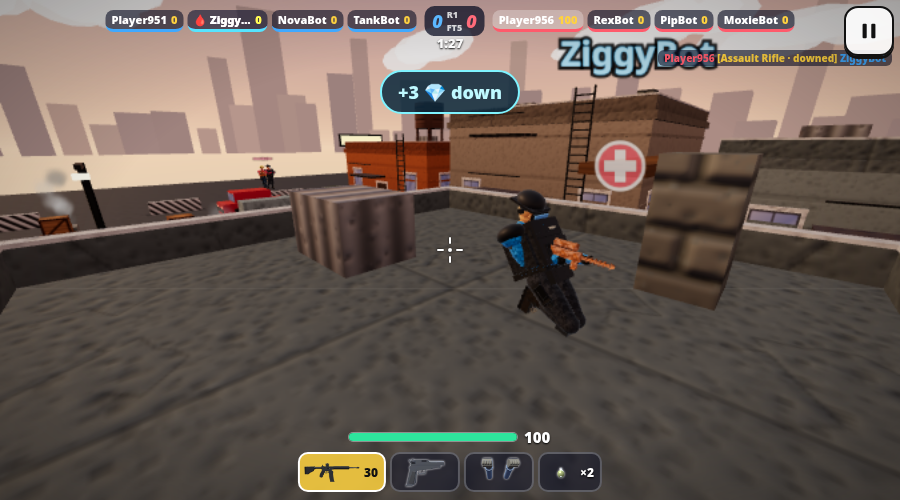
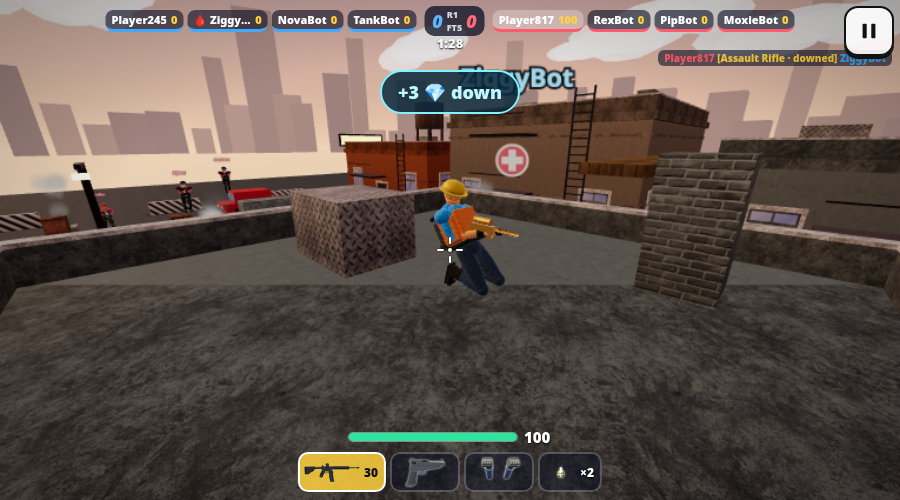
v38: bot stuck detection/unstick, bots revive downed teammates under fire, rounded smooth characters (LOD-aware), Play Online with Bots (menu+hub), team-aware join

diff --git a/game.js b/game.js
@@ -499,7 +499,7 @@ function hostHandle(from,m){const p=H.players[from];
  switch(m.t){
  case 'hello':{if(Object.values(H.players).filter(q=>!q.bot).length>=MAXP){conns[from]?.send({t:'full'});return}if(!conns[from]){const c=peer.connections?.[from]?.[0];if(c)conns[from]=c}
   const np=H.players[from]=newP(from,String(m.name||'Player').slice(0,12));np.skin=SKINS[m.skin]?m.skin:'default';np.ws=cleanWS(m.ws);np.cl=clOf(m.cl);np.hid=m.hid||null;
-  if(H.phase==='lobby')sendLobby();else{if(H.mode==='ffa'){np.team=from;np.color=FFACOL[plist().length%10]}else{np.team=teamSmaller();np.color=TEAMCOL[np.team]}
+  if(H.phase==='lobby')sendLobby();else{if(H.mode==='ffa'){np.team=from;np.color=FFACOL[plist().length%10]}else{np.team=teamForJoiner(from);np.color=TEAMCOL[np.team]}
    {const mx=MODEMAX[H.mode]||MAXP;if(plist().length>mx){const bs=plist().filter(q=>q.bot&&(H.mode==='ffa'||q.team===np.team));const bt=bs.find(q=>!q.alive)||bs[0];if(bt){delete H.players[bt.id];bcast({t:'bye',id:bt.id})}}}
    bcast(lobbyData());sendTo(from,startData());bcast({t:'join',id:from,name:np.name,team:np.team,color:np.color,o:np.ord,sk:np.skin,ws:np.ws,cl:np.cl},from);
    sendTo(from,{t:'round',round:H.round,score:H.score,spawns:{},count:0});sendSB();if(H.mode==='ffa')np.respawn=H.t+1}break}
@@ -525,6 +525,7 @@ function hostHandle(from,m){const p=H.players[from];
  case 'fall':if(p&&p.alive&&H.phase==='play')damage(p,999,from,false,'fall');break;
  }}
 function rayClearHost(a,b){const d=b.clone().sub(a);const l=d.length();d.divideScalar(l);if(rayWorld(a,d,l)<l-.3)return false;for(const s of H.smokes){if(s.t<1.2)continue;const lx=s.p.x-a.x,ly=s.p.y-a.y,lz=s.p.z-a.z;const tc=lx*d.x+ly*d.y+lz*d.z;const d2=lx*lx+ly*ly+lz*lz-tc*tc;const r=s.r*.8;if(d2<r*r&&tc>-r&&tc<l+r)return false}return true}
+function teamForJoiner(id){const h={A:0,B:0},n={A:0,B:0};for(const p of plist()){if(p.id===id||!(p.team in n))continue;n[p.team]++;if(!p.bot)h[p.team]++}return h.A!==h.B?(h.A<h.B?'A':'B'):(n.A<=n.B?'A':'B')}
 function teamSmaller(){let a=0,b=0;for(const p of plist()){if(p.team==='A')a++;else if(p.team==='B')b++}return a<=b?'A':'B'}
 const AS_WIN=10,AS_MIN=25;
 function asRec(v,dmg,by,w){if(!by||by===v.id||w==='fall'||w==='bleed'||!H.players[by])return;const D=v.dmgBy||(v.dmgBy={});const e=D[by]||(D[by]={d:0,t:-99});if(H.t-e.t>AS_WIN)e.d=0;e.d+=v.down?dmg*.5:dmg;e.t=H.t}
@@ -580,12 +581,12 @@ function hostTick(dt){H.t+=dt;if(H.phase==='play')for(const p of plist()){const 
  if(H.phase==='play'){
   for(const v of plist()){if(!v.down)continue;if(H.t>=v.downT){damage(v,999,v.id,false,'bleed');continue}
    const rv=plist().filter(q=>q.team===v.team&&q.id!==v.id&&q.alive&&!q.down&&Math.hypot(q.p[0]-v.p[0],q.p[1]-v.p[1],q.p[2]-v.p[2])<=DOWN.r);
-   if(rv.length){if(!v.rev||!rv.some(q=>q.id===v.rev.by))v.rev={by:rv[0].id,t0:H.t};if(H.t-v.rev.t0>=((PCL[(H.players[v.rev.by]||{}).cl]||{}).rev||DOWN.revive)){(window.__rv=window.__rv||[]).push(+(H.t-v.rev.t0).toFixed(3));v.down=false;v.hp=DOWN.revHp;v.dmgBy={};const by=v.rev.by;v.rev=null;bcast({t:'revive',id:v.id,by,hp:v.hp});bcast({t:'hp',id:v.id,hp:v.hp});sendSB();continue}}
+   if(rv.length){if(!v.rev||!rv.some(q=>q.id===v.rev.by))v.rev={by:rv[0].id,t0:H.t};if(H.t-v.rev.t0>=((PCL[(H.players[v.rev.by]||{}).cl]||{}).rev||DOWN.revive)){(window.__rv=window.__rv||[]).push(+(H.t-v.rev.t0).toFixed(3));(window.__rvBy=window.__rvBy||[]).push({id:v.id,by:v.rev.by});v.down=false;v.hp=DOWN.revHp;v.dmgBy={};const by=v.rev.by;v.rev=null;bcast({t:'revive',id:v.id,by,hp:v.hp});bcast({t:'hp',id:v.id,hp:v.hp});sendSB();continue}}
    else v.rev=null;
    if((v.dsT=(v.dsT||0)+dt)>.15){v.dsT=0;bcast({t:'dst',id:v.id,left:Math.max(0,v.downT-H.t),rv:v.rev?Math.min(1,(H.t-v.rev.t0)/((PCL[(H.players[v.rev.by]||{}).cl]||{}).rev||DOWN.revive)):0,by:v.rev?v.rev.by:null})}}
   if(H.t>=H.roundEnd){let win='draw';if(H.mode==='ffa'){let b=-1;for(const p of plist())if(p.rk>b){b=p.rk;win=p.id}}else{const a=teamAlive();win=(a.A||0)>(a.B||0)?'A':(a.B||0)>(a.A||0)?'B':'draw'}endRound(win)}
   if(H.mode==='ffa')for(const p of plist()){if(!p.alive&&p.respawn&&H.t>=p.respawn){p.respawn=0;p.dmgBy={};p.alive=true;p.hp=100;const s=respawnPoint(p);p.p=[s[0],0,s[1],s[2],0,0,0];if(p.bot)botReset(p,s);bcast({t:'spawn',id:p.id,s});sendSB()}}
-  for(const p of plist())if(p.bot&&p.alive)botTick(p,dt);
+  for(const p of plist())if(p.bot&&p.alive&&!(H.botFreeze&&H.botFreeze[p.id]))botTick(p,dt);
   // molotov damage over time
   H.fireT+=dt;for(const f of H.fires)f.t+=dt;H.fires=H.fires.filter(f=>f.t<f.life);for(const s of H.smokes)s.t+=dt;H.smokes=H.smokes.filter(s=>s.t<s.life);
   if(H.fireT>=.5){H.fireT=0;for(const f of H.fires){const o=H.players[f.owner];for(const p of plist()){if(!p.alive)continue;if(o&&H.mode!=='ffa'&&p.team===o.team&&p.id!==f.owner)continue;if(p.id===f.owner)continue;
@@ -611,7 +612,7 @@ function botTick(b,dt){const e=b.e;let tgt=null,td=1e9;
   let wx=0,wz=0;if(m&&md>1){wx=(m.p[0]-e.pos.x)/md;wz=(m.p[2]-e.pos.z)/md;b.yaw=Math.atan2(-wx,-wz)}e.vel.x=wx*1.1;e.vel.z=wz*1.1;e.bump=0;physStep(e,dt);b.p=[e.pos.x,e.pos.y,e.pos.z,b.yaw,0,WIDX[b.gun]|0,0];return}
  // go revive a downed teammate when no enemy is in sight
  if(isTeamMode(H.mode)){const dn=plist().filter(q=>q.down&&q.alive&&q.team===b.team&&q.id!==b.id);if(dn.length){let best=null,bd=1e9;for(const q of dn){const d=Math.hypot(q.p[0]-e.pos.x,q.p[2]-e.pos.z);if(d<bd){bd=d;best=q}}
-  if(best&&bd<35){b.revT=best.id;b.goal=[best.p[0],best.p[2],best.p[1]];b.via=null}else b.revT=null}else b.revT=null}b.blind=Math.max(0,(b.blind||0)-dt);const w=W[b.gun]||W.ar;
+  if(best&&bd<60){b.revT=best.id;b.goal=[best.p[0],best.p[2],best.p[1]];b.via=null}else b.revT=null}else b.revT=null}b.blind=Math.max(0,(b.blind||0)-dt);const w=W[b.gun]||W.ar;
  if(b.blind<=0&&!H.noFight)for(const q of plist()){if(!q.alive||q.id===b.id||(H.mode!=='ffa'&&q.team===b.team))continue;const dx=q.p[0]-e.pos.x,dz=q.p[2]-e.pos.z,dy=q.p[1]-e.pos.y,dd=Math.hypot(dx,dy,dz);if(dd>55||dd>=td)continue;if(dd>4.5&&hides.length&&inVol(hides,{x:q.p[0],y:q.p[1]+.5,z:q.p[2]})&&!(q.shotT>H.t-1.5))continue;
   _o.set(e.pos.x,e.pos.y+1.5,e.pos.z);if(!rayClearHost(_o,_d.set(q.p[0],q.p[1]+(q.down?.4:1.4),q.p[2])))continue;const sc=dd+(q.down?12:0);if(sc>=td)continue;td=sc;tgt=q}
  let wx=0,wz=0;b.st-=dt;if(b.st<=0){b.st=.5+Math.random()*1.2;b.strafe=Math.random()<.5?-1:1}
@@ -622,12 +623,24 @@ function botTick(b,dt){const e=b.e;let tgt=null,td=1e9;
    bcast({t:'fx',id:b.id,a:[_o.x,_o.y,_o.z],b:end,w:b.gun});if(hit){const head=Math.random()<D.head;damage(tgt,Math.round((head?w.head:w.body)*falloff(w,td)),b.id,head,b.gun)}}}
  else{b.react=DIFF[H.diff||'normal'].react;const m=buildMap(H.map);if(b.goal&&b.hold>0&&Math.hypot(b.goal[0]-e.pos.x,b.goal[1]-e.pos.z)<2&&Math.abs((b.goal[2]||0)-e.pos.y)<1.6)b.hold-=dt;if(!b.revT&&!(b.hold>0&&b.goal&&Math.hypot(b.goal[0]-e.pos.x,b.goal[1]-e.pos.z)<2.5)&&(!b.goal||(Math.hypot(b.goal[0]-e.pos.x,b.goal[1]-e.pos.z)<2&&Math.abs((b.goal[2]||0)-e.pos.y)<1.6)||(!H.noFight&&(Math.random()<dt*.05||(b.goalT=(b.goalT||0)+dt)>25)))){const all=allSpawns(m);const foes=plist().filter(q=>q.alive&&q.id!==b.id&&(H.mode==='ffa'||q.team!==b.team));const hi=m.nav?m.nav.filter(n=>(n[2]||0)>2):[];if(hi.length&&Math.random()<.4){b.goal=hi[Math.random()*hi.length|0].slice();b.hold=4+Math.random()*6}else if(foes.length&&Math.random()<.55){const f=foes[Math.random()*foes.length|0];b.goal=[f.p[0]+(Math.random()-.5)*3,f.p[2]+(Math.random()-.5)*3,f.p[1]]}else if(m.nav&&m.nav.length&&Math.random()<.5)b.goal=m.nav[Math.random()*m.nav.length|0].slice();else b.goal=all[Math.random()*all.length|0].slice();b.via=null;b.goalT=0}
   const nt=navTarget(b,e,m);const dx=nt[0]-e.pos.x,dz=nt[2]-e.pos.z;b.climbY=nt[1];const l=Math.hypot(dx,dz)||1;wx=dx/l;wz=dz/l;const ty=Math.atan2(-dx,-dz);let dy=ty-b.yaw;dy=Math.atan2(Math.sin(dy),Math.cos(dy));b.yaw+=dy*Math.min(1,dt*4)}
- if(b.detour>0){b.detour-=dt;wx=b.dd[0];wz=b.dd[1]}
- if(b.revT&&!tgt){const q=H.players[b.revT];if(q&&Math.hypot(q.p[0]-e.pos.x,q.p[2]-e.pos.z)<.9){wx=wz=0;b.detour=0}}
+ // revive takes priority over fighting unless an enemy is very close (<7 m): keep aiming/shooting, but walk to the downed mate and hold
+ let revHold=false;if(b.revT){const q=H.players[b.revT];if(q&&q.down&&(!tgt||td>7)){const m=buildMap(H.map);if(tgt){const nt=navTarget(b,e,m);const dx=nt[0]-e.pos.x,dz=nt[2]-e.pos.z,l=Math.hypot(dx,dz)||1;wx=dx/l;wz=dz/l;b.climbY=nt[1]}
+   if(Math.hypot(q.p[0]-e.pos.x,q.p[2]-e.pos.z)<.9&&Math.abs(q.p[1]-e.pos.y)<1.2){wx=wz=0;b.detour=0;revHold=true}}}
+ if(b.detour>0&&!revHold){b.detour-=dt;wx=b.dd[0];wz=b.dd[1]}
  const l=Math.hypot(wx,wz);if(l>0){wx/=l;wz/=l}const sp=(b.blind>0?2:5.2)*(b.slowT>H.t?b.slowF:1);{const cs=(PCL[b.cl]||{}).spd||1;e.vel.x+=(wx*sp*cs-e.vel.x)*Math.min(1,dt*10);e.vel.z+=(wz*sp*cs-e.vel.z)*Math.min(1,dt*10)}
  {const L=inVol(ladders,e.pos);e.ladTop=L&&(b.climbY??0)>e.pos.y+.3?L.y1:null;if(L){const ty=b.climbY??e.pos.y;if(ty>e.pos.y+.3){e.vel.y=4.4;e.vel.x-=L.n[0]*1.5;e.vel.z-=L.n[1]*1.5}else if(ty<e.pos.y-.3)e.vel.y=Math.min(e.vel.y,-2.5);else e.vel.y=Math.max(e.vel.y,0)}}
  if(e.ground&&!(b.via&&b.via.down)){const px=e.pos.x+e.vel.x*.45,pz=e.pos.z+e.vel.z*.45;if(!supportAt(px,e.pos.y,pz)){e.vel.x*=-.3;e.vel.z*=-.3;if(!b.via)b.goal=null}}
  if(e.ground&&supportAt(e.pos.x,e.pos.y,e.pos.z))b.lastG=[e.pos.x,e.pos.z];else if(!e.ground&&b.lastG&&!inVol(ladders,e.pos,.4)&&!(b.via&&b.via.down)&&!supportAt(e.pos.x,e.pos.y,e.pos.z)){const gx=b.lastG[0]-e.pos.x,gz=b.lastG[1]-e.pos.z,gl=Math.hypot(gx,gz)||1;e.vel.x=gx/gl*5;e.vel.z=gz/gl*5;if(!b.via)b.goal=null}
+ {const want=Math.hypot(wx,wz)>.1&&!revHold&&!(b.hold>0&&b.goal&&Math.hypot(b.goal[0]-e.pos.x,b.goal[1]-e.pos.z)<2.5)&&!b.down;
+  const spd=Math.hypot(e.vel.x,e.vel.z);if(H.phase==='play'){const sw=b.sw||(b.sw={t:0,w:0,x:e.pos.x,z:e.pos.z});sw.t+=dt;if(want)sw.w+=dt;if(sw.t>=4){if(sw.w>3){H.moveSec=(H.moveSec||0)+4;if(Math.hypot(e.pos.x-sw.x,e.pos.z-sw.z)<1.5)H.stuckSec=(H.stuckSec||0)+4}sw.t=sw.w=0;sw.x=e.pos.x;sw.z=e.pos.z}}
+  const pr=b.pr||(b.pr={t:0,x:e.pos.x,z:e.pos.z});pr.t+=dt;if(pr.t>=.8){const mv=Math.hypot(e.pos.x-pr.x,e.pos.z-pr.z);b.lowProg=want&&mv<.7;
+   if(b.lowProg&&!H.noUnstick&&!inVol(ladders,e.pos,.6)){b.stk=(b.stk||0)+1;const sg=(b.stk&1)?1:-1,vl=Math.hypot(wx,wz)||1;
+    // 1: back up + strafe + hop; 2+: also re-path (new goal); 4+: aim for the nearest reachable nav point; 6+: nudge to the last good ground
+    b.dd=[(-wx*.7-wz*sg)/vl,(-wz*.7+wx*sg)/vl];b.detour=.6+Math.random()*.4;if(e.ground)e.vel.y=7.5;
+    if(b.stk>=2&&!b.revT){b.goal=null;b.via=null}
+    if(b.stk>=4){const m=buildMap(H.map);const N=(m.nav||[]).filter(n=>Math.abs((n[2]||0)-e.pos.y)<1.5);let bn=null,bd=1e9;for(const n of N){const d=Math.hypot(n[0]-e.pos.x,n[1]-e.pos.z);if(d>2&&d<bd){bd=d;bn=n}}if(bn&&!b.revT){b.goal=bn.slice();b.via=null}}
+    if(b.stk>=6&&b.goodG&&supportAt(b.goodG[0],b.goodG[2],b.goodG[1])){e.pos.set(b.goodG[0],b.goodG[2],b.goodG[1]);e.vel.set(0,0,0);b.goal=null;b.via=null;b.stk=0}}
+   else if(!b.lowProg){b.stk=0;if(e.ground)b.goodG=[e.pos.x,e.pos.z,e.pos.y]}pr.t=0;pr.x=e.pos.x;pr.z=e.pos.z}}
  e.bump=0;{const n=Math.ceil(dt/.02);for(let i=0;i<n;i++){const bb=e.bump;physStep(e,dt/n);e.bump=e.bump||bb}}if(e.bump&&e.ground){e.vel.y=8;b.stuckN=(b.stuckN||0)+1;if(b.stuckN>1&&!(b.detour>0)){const sg=Math.random()<.5?1:-1;const vl=Math.hypot(wx,wz)||1;b.dd=[-wz/vl*sg,wx/vl*sg];b.detour=.7+Math.random()*.6;b.stuckN=0}if(Math.random()<.15&&!b.via&&!inVol(ladders,e.pos,.6))b.goal=null}else if(!e.bump)b.stuckN=Math.max(0,(b.stuckN||0)-dt);if(e.pos.y<-3)damage(b,999,b.id,false,'fall');
  b.p=[e.pos.x,e.pos.y,e.pos.z,b.yaw,0,WIDX[b.gun]|0,e.ground?0:2]}
 // ================= CLIENT =================
@@ -1269,7 +1282,7 @@ $('endAgain').onclick=()=>endGo(true);$('endLobby').onclick=()=>endGo(false);
 function afterMatch(){if(C.fromHub||sessionStorage.getItem('hsz_fromHub')){sessionStorage.removeItem('hsz_fromHub');location.href=hubUrl()}}
 // ---------- public rooms: registry, browser, quick join ----------
 let regIv=null;
-function roomInfo(){return{code:roomCode,host:H.players[me.id]?.name||'Host',mode:H.mode,map:H.phase==='lobby'?'Voting':MAPS[H.map].name,n:plist().filter(p=>!p.bot).length,max:MODEMAX[H.mode]||10,phase:H.phase,hubffa:!!(H.auto&&H.auto.solo)}}
+function roomInfo(){return{code:roomCode,host:H.players[me.id]?.name||'Host',mode:H.mode,map:H.phase==='lobby'?'Voting':MAPS[H.map].name,n:plist().filter(p=>!p.bot).length,max:MODEMAX[H.mode]||10,phase:H.phase,hubffa:!!(H.auto&&H.auto.solo&&H.mode==='ffa')}}
 function regRoom(){if(!isHost||H.offline)return;if(!H.pub){if(regIv){clearInterval(regIv);regIv=null;hubSend({t:'unreg',code:roomCode})}return}
  hubLink(hubKind||'reg');hubSend({t:'reg',room:roomInfo()});if(!regIv)regIv=setInterval(()=>{if(H.pub)hubSend({t:'reg',room:roomInfo()})},5000)}
 function fetchRooms(cb){brCb=cb;hubLink(hubKind||'browse');if(hubConn&&hubConn.open)hubSend({t:'list'})}
@@ -1448,3 +1461,12 @@ $('soloOn').onclick=()=>{$('soloSel').classList.add('hidden');startHubMatch({cod
 $('soloOff').onclick=()=>{$('soloSel').classList.add('hidden');hubUnlink();leaveHubWorld();C.fromHub=true;sessionStorage.setItem('hsz_fromHub','1');startOffline();H.mode='ffa';H.auto={mode:'ffa',map:Math.random()*5|0,expect:1,fromHub:1};H.autoAt=H.t+.5;sendLobby()};
 $('soloX').onclick=()=>$('soloSel').classList.add('hidden');
 Object.defineProperty(window.__hsz,'room',{get:()=>({code:roomCode,inGame,offline:!!(H&&H.offline),pub:!!(H&&H.pub),host:isHost})});
+
+// ---- Play Online with Bots (menu + hub): host a public, bot-filled match; joiners replace a bot (team modes: on the team that needs them) ----
+function openPob(){audioInit();$('pobModes').innerHTML=['ffa','team','t3','t4','t5','duel'].map(k=>`<button class="btnBig blue" data-pob="${k}">${MODES[k][1]} ${MODES[k][0]}</button>`).join('');$('pobSel').classList.remove('hidden');if(document.pointerLockElement)document.exitPointerLock()}
+function playOnlineBots(mode){$('pobSel').classList.add('hidden');const auto={mode,map:Math.random()*MAPS.length|0,teams:{},expect:1,solo:1};const code=genCode();
+ if(C.hub){startHubMatch({code,map:auto.map,mode,teams:{},expect:1,solo:1,host:hubSelfId});return}
+ $('menu').classList.add('hidden');createRoom(code,auto)}
+$('pobModes').addEventListener('click',e=>{const b=e.target.closest('[data-pob]');if(b)playOnlineBots(b.dataset.pob)});
+$('pobBtn').onclick=openPob;$('hubPob').onclick=openPob;$('pobX').onclick=()=>$('pobSel').classList.add('hidden');
+window.__hsz.playOnlineBots=playOnlineBots;

diff --git a/chars.js b/chars.js
@@ -11,16 +11,25 @@ function hash(s){let h=7;for(const c of String(s))h=h*31+c.charCodeAt(0)|0;retur
 const _a=new THREE.Vector3(),_b=new THREE.Vector3(),_up=new THREE.Vector3(0,1,0),_q=new THREE.Quaternion(),_m=new THREE.Matrix4();
 // material ids: 0 cloth+camo 1 skin 2 hard gear 3 eye 4 plain cloth/leather 5 stubble skin 6 hair
 let MID=0;const M=k=>{MID=k};
-function limb(P,a,b,r1,r2,c,seg=10){_a.set(...a);_b.set(...b);const d=_b.clone().sub(_a),l=d.length();_q.setFromUnitVectors(_up,d.normalize());_m.compose(_a.clone().add(_b).multiplyScalar(.5),_q,new THREE.Vector3(1,1,1));P.push({g:G('cyl',r2,r1,l,seg),m:_m.clone(),c,k:MID})}
-const LG={};function limbGeo(l,r1,r2,bu,seg){const k=[l,r1,r2,bu,seg].map(v=>+(+v).toFixed(4)).join(',');if(LG[k])return LG[k];const pts=[];const n=10;
- for(let i=0;i<=4;i++){const a=-Math.PI/2+i/4*Math.PI/2;pts.push(new THREE.Vector2(Math.cos(a)*r1,-l/2+Math.sin(a)*r1*.9))}
+function limb(P,a,b,r1,r2,c,seg=10){_a.set(...a);_b.set(...b);const d=_b.clone().sub(_a),l=d.length();_q.setFromUnitVectors(_up,d.normalize());_m.compose(_a.clone().add(_b).multiplyScalar(.5),_q,new THREE.Vector3(1,1,1));P.push({g:(lowQ()||Math.max(r1,r2)<(GQ.level==='high'?.02:.03))?G('cyl',r2,r1,l,lowQ()?Math.max(5,seg*.7|0):seg):limbGeo(l,r1,r2,0,seg+(GQ.level==='high'?4:0)),m:_m.clone(),c,k:MID})}
+const LG={};function limbGeo(l,r1,r2,bu,seg){const k=[l,r1,r2,bu,seg].map(v=>+(+v).toFixed(4)).join(',');if(LG[k])return LG[k];const pts=[];const n=GQ.level==='low'?4:GQ.level==='high'?10:6;
+ const nc=GQ.level==='low'?2:GQ.level==='high'?4:3;for(let i=0;i<=nc;i++){const a=-Math.PI/2+i/nc*Math.PI/2;pts.push(new THREE.Vector2(Math.cos(a)*r1,-l/2+Math.sin(a)*r1*.9))}
  for(let i=1;i<n;i++){const t=i/n;pts.push(new THREE.Vector2(r1+(r2-r1)*t+bu*Math.sin(Math.PI*t)*Math.sin(Math.PI*t),-l/2+l*t))}
- for(let i=0;i<=4;i++){const a=i/4*Math.PI/2;pts.push(new THREE.Vector2(Math.max(1e-4,Math.cos(a)*r2),l/2+Math.sin(a)*r2*.9))}
+ for(let i=0;i<=nc;i++){const a=i/nc*Math.PI/2;pts.push(new THREE.Vector2(Math.max(1e-4,Math.cos(a)*r2),l/2+Math.sin(a)*r2*.9))}
  const g=new THREE.LatheGeometry(pts,seg);return LG[k]=g}
-function limbO(P,a,b,r1,r2,c,bu=0,seg=14){_a.set(...a);_b.set(...b);const d=_b.clone().sub(_a),l=d.length();_q.setFromUnitVectors(_up,d.normalize());_m.compose(_a.clone().add(_b).multiplyScalar(.5),_q,new THREE.Vector3(1,1,1));P.push({g:limbGeo(l,r1,r2,bu,seg),m:_m.clone(),c,k:MID})}
+function limbO(P,a,b,r1,r2,c,bu=0,seg=14){_a.set(...a);_b.set(...b);const d=_b.clone().sub(_a),l=d.length();_q.setFromUnitVectors(_up,d.normalize());_m.compose(_a.clone().add(_b).multiplyScalar(.5),_q,new THREE.Vector3(1,1,1));P.push({g:limbGeo(l,r1,r2,bu,lowQ()?Math.max(6,seg*.55|0):seg+4),m:_m.clone(),c,k:MID})}
 function torsoGeo(pr,seg,sz){const k='T'+pr.join()+seg+sz;if(LG[k])return LG[k];const g=new THREE.LatheGeometry(pr.map(([r,y])=>new THREE.Vector2(Math.max(1e-4,r),y)),seg);g.scale(1,1,sz);return LG[k]=g}
-const bx=(P,w,h,d,x,y,z,c,rx=0,ry=0,rz=0)=>P.push({g:G('box',w,h,d),p:[x,y,z],r:[rx,ry,rz],c,k:MID});
-const sp=(P,r,x,y,z,c,sx=1,sy=1,sz=1,seg=12)=>P.push({g:G('sph',r,seg,Math.max(6,seg*.66|0)),p:[x,y,z],s:[sx,sy,sz],c,k:MID});
+// v19: every "box" part is a rounded box (spherified corners/edges, smooth normals) so gear, faces and plates read soft, not blocky.
+// Low tier uses 1 corner segment (cheap bevel), medium 2, high 3; geometry cached per size.
+const lowQ=()=>GQ.level==='low',CS=()=>GQ.level==='high'?2:1;
+const RB={};function rbox(w,h,d){const s=CS(),k=[w,h,d,s].map(v=>+(+v).toFixed(4)).join(',');if(RB[k])return RB[k];
+ const r=Math.min(w,h,d)*.42,n=2*s+1,g=new THREE.BoxGeometry(1,1,1,n,n,n),pa=g.attributes.position,na=g.attributes.normal,hx=[w/2-r,h/2-r,d/2-r],v=[0,0,0],c=[0,0,0];
+ const map=(u,hi)=>{const t=Math.round((u+.5)*n);let x;if(t<=s)x=-hi-r+r*t/s;else if(t>=n-s)x=hi+r*(t-(n-s))/s;else x=-hi+2*hi*(t-s)/(n-2*s);return x};
+ for(let i=0;i<pa.count;i++){v[0]=map(pa.getX(i),hx[0]);v[1]=map(pa.getY(i),hx[1]);v[2]=map(pa.getZ(i),hx[2]);for(let a=0;a<3;a++)c[a]=Math.max(-hx[a],Math.min(hx[a],v[a]));
+  let nx=v[0]-c[0],ny=v[1]-c[1],nz=v[2]-c[2];const l=Math.hypot(nx,ny,nz);if(l>1e-7){nx/=l;ny/=l;nz/=l;pa.setXYZ(i,c[0]+nx*r,c[1]+ny*r,c[2]+nz*r);na.setXYZ(i,nx,ny,nz)}else{pa.setXYZ(i,v[0],v[1],v[2])}}
+ return RB[k]=g}
+const bx=(P,w,h,d,x,y,z,c,rx=0,ry=0,rz=0)=>P.push({g:Math.min(w,h,d)<(GQ.level==='high'?.004:.012)||Math.max(w,h,d)<(lowQ()?.2:GQ.level==='high'?0:.04)?G('box',w,h,d):rbox(w,h,d),p:[x,y,z],r:[rx,ry,rz],c,k:MID});
+const sp=(P,r,x,y,z,c,sx=1,sy=1,sz=1,seg=12)=>{seg=lowQ()?Math.max(6,seg*.6|0):r>.05&&GQ.level==='high'?seg+8:seg;P.push({g:G('sph',r,seg,Math.max(6,seg*.7|0)),p:[x,y,z],s:[sx,sy,sz],c,k:MID})};
 const cy=(P,r1,r2,h,x,y,z,c,seg=12,rx=0,rz=0)=>P.push({g:G('cyl',r1,r2,h,seg),p:[x,y,z],r:[rx,0,rz],c,k:MID});
 // ---------- character material ----------
 const NOISE=`float h3(vec3 p){p=fract(p*.3183099+.1);p*=17.;return fract(p.x*p.y*p.z*(p.x+p.y+p.z));}
@@ -56,7 +65,7 @@ function charMat(lvl){if(lvl==='low')return texMat('char');if(CM[lvl])return CM[
  m.customProgramCacheKey=()=>'char3'+lvl;return CM[lvl]=m}
 MATHOOK.char3=charMat;
 const GEO={};const MAT=()=>texMat('char3');
-function mk(key,f,camo){if(!GEO[key]){const P=[];f(P);if(!P.length){GEO[key]=null}else{const g=mergeParts(P);const n=g.attributes.position.count;const md=new Float32Array(n),cm=new Float32Array(n);let o=0;
+function mk(key,f,camo){key+="|"+GQ.level;if(!GEO[key]){const P=[];f(P);if(!P.length){GEO[key]=null}else{const g=mergeParts(P);const n=g.attributes.position.count;const md=new Float32Array(n),cm=new Float32Array(n);let o=0;
   for(const pt of P){const c=pt.g.index?pt.g.index.count:pt.g.attributes.position.count;md.fill(pt.k||0,o,o+c);cm.fill((pt.k||0)===0?camo:0,o,o+c);o+=c}
   if(o===n){g.setAttribute('mid',new THREE.BufferAttribute(md,1));g.setAttribute('camo',new THREE.BufferAttribute(cm,1))}else{g.setAttribute('mid',new THREE.BufferAttribute(new Float32Array(n),1));g.setAttribute('camo',new THREE.BufferAttribute(new Float32Array(n),1))}GEO[key]=g}}return GEO[key]}
 let CAMO=0;

diff --git a/index.html b/index.html
@@ -28,7 +28,7 @@
     <input id="nameIn" maxlength="12" placeholder="Player" autocomplete="off">
     <button id="hubBtn" class="btnBig yellow">🌐 PLAY ONLINE · HUB</button>
     <div class="row2"><button id="quickBtn" class="btnBig blue">⚡ QUICK JOIN</button><button id="browseBtn" class="btnBig blue">📋 BROWSE</button></div>
-    <button id="offlineBtn" class="btnBig green">🤖 OFFLINE VS BOTS</button>
+    <button id="offlineBtn" class="btnBig green">🤖 OFFLINE VS BOTS</button><button id="pobBtn" class="btnBig yellow">🌐 PLAY ONLINE WITH BOTS</button>
     <details class="priv"><summary>🔒 Private room / invite code</summary>
      <button id="createBtn" class="btnBig">CREATE PRIVATE ROOM</button>
      <div class="joinRow"><input id="codeIn" maxlength="5" placeholder="CODE" autocomplete="off"><button id="joinBtn" class="btnBig blue">JOIN</button></div></details>
@@ -112,6 +112,7 @@
 
 <!-- SETTINGS -->
 <div id="credits" class="screen dim hidden"><div class="card setCard" style="max-height:85vh;overflow:auto"><div class="cardHead">📜 CREDITS</div><p style="font-size:13px">HeadShotz — original game. Sounds are generated in code. HD textures, sky and props are CC0 (public domain) from <a href="https://polyhaven.com" target="_blank" rel="noopener">Poly Haven</a>:</p><ul style="font-size:12px;line-height:1.5;padding-left:18px"><li><b>Concrete Floor 02</b> by Rob Tuytel — Texture: concrete surface · <a href="https://polyhaven.com/a/concrete_floor_02" target="_blank" rel="noopener">source</a> · CC0</li><li><b>Red Brick 03</b> by Rob Tuytel — Texture: brick surface · <a href="https://polyhaven.com/a/red_brick_03" target="_blank" rel="noopener">source</a> · CC0</li><li><b>Brown Planks 03</b> by Rob Tuytel — Texture: planks surface · <a href="https://polyhaven.com/a/brown_planks_03" target="_blank" rel="noopener">source</a> · CC0</li><li><b>Asphalt 02</b> by Rob Tuytel — Texture: asphalt surface · <a href="https://polyhaven.com/a/asphalt_02" target="_blank" rel="noopener">source</a> · CC0</li><li><b>Rock Wall 08</b> by Amal Kumar — Texture: rock surface · <a href="https://polyhaven.com/a/rock_wall_08" target="_blank" rel="noopener">source</a> · CC0</li><li><b>Floor Tiles 06</b> by Rob Tuytel — Texture: tiles surface · <a href="https://polyhaven.com/a/floor_tiles_06" target="_blank" rel="noopener">source</a> · CC0</li><li><b>Metal Plate</b> by Rob Tuytel — Texture: metal surface · <a href="https://polyhaven.com/a/metal_plate" target="_blank" rel="noopener">source</a> · CC0</li><li><b>Leafy Grass</b> by Charlotte Baglioni — Texture: grass surface · <a href="https://polyhaven.com/a/leafy_grass" target="_blank" rel="noopener">source</a> · CC0</li><li><b>Coast Sand 01</b> by Rob Tuytel — Texture: sand surface · <a href="https://polyhaven.com/a/coast_sand_01" target="_blank" rel="noopener">source</a> · CC0</li><li><b>Painted Plaster Wall</b> by Amal Kumar — Texture: plaster surface · <a href="https://polyhaven.com/a/painted_plaster_wall" target="_blank" rel="noopener">source</a> · CC0</li><li><b>Plywood</b> by Rob Tuytel — Texture: crate surface · <a href="https://polyhaven.com/a/plywood" target="_blank" rel="noopener">source</a> · CC0</li><li><b>Kloofendal 48d Partly Cloudy (Pure Sky)</b> by Greg Zaal, Jarod Guest — HDRI sky (environment reflections) · <a href="https://polyhaven.com/a/kloofendal_48d_partly_cloudy_puresky" target="_blank" rel="noopener">source</a> · CC0</li><li><b>Barrel 03</b> by Serhii Khromov — Model: barrels · <a href="https://polyhaven.com/a/barrel_03" target="_blank" rel="noopener">source</a> · CC0</li><li><b>Wooden Crate 02</b> by James Ray Cock, Jurita Burger — Model: crates · <a href="https://polyhaven.com/a/wooden_crate_02" target="_blank" rel="noopener">source</a> · CC0</li></ul><p style="font-size:12px">three.js (MIT) · PeerJS (MIT)</p><button id="credClose" class="btnBig yellow">DONE</button></div></div>
+<div id="pobSel" class="screen dim hidden"><div class="card setCard" style="text-align:center"><div class="cardHead">🌐 PLAY ONLINE WITH BOTS</div><p>Pick a mode. Bots fill the match; friends and anyone on Quick Join take a bot's spot.</p><div id="pobModes" style="display:grid;grid-template-columns:1fr 1fr;gap:8px"></div><button id="pobX" class="pill" style="min-height:44px;margin-top:10px">Cancel</button></div></div>
 <div id="soloSel" class="screen dim hidden"><div class="card setCard" style="text-align:center"><div class="cardHead">💥 FREE-FOR-ALL</div><p>You're the only one on the pad. How do you want to play?</p><button id="soloOn" class="btnBig yellow" style="min-height:64px;width:100%;margin:8px 0">🌐 PLAY ONLINE<br><small>bots + friends can join</small></button><button id="soloOff" class="btnBig" style="min-height:64px;width:100%;margin:8px 0">🤖 PLAY OFFLINE WITH BOTS</button><button id="soloX" class="pill" style="min-height:44px;margin-top:6px">Cancel</button></div></div>
 <div id="settings" class="screen dim hidden">
  <div class="card setCard">
@@ -137,7 +138,7 @@
   <div id="feed"></div>
   <div id="bottom"><div id="hpWrap"><div id="hpBar"><div id="hpFill"></div></div><span id="hpTxt">100</span></div><div id="slots"></div></div>
   <div id="dmgLayer"></div>
-  <div id="hubUI" class="hidden"><button id="hubFriends" class="pill">👥<i class="frBadge hidden"></i></button><div id="hubInfo"></div><button id="stationBtn" class="hidden"></button><div id="padInfo"></div></div>
+  <div id="hubUI" class="hidden"><button id="hubPob" class="btnBig yellow">🌐 PLAY ONLINE WITH BOTS</button><button id="hubFriends" class="pill">👥<i class="frBadge hidden"></i></button><div id="hubInfo"></div><button id="stationBtn" class="hidden"></button><div id="padInfo"></div></div>
   <div id="mapSel" class="hidden"><div class="card"><div class="cardHead">CHOOSE A MAP <b id="mapSelT">5</b></div><div id="mapSelSub"></div><div id="mapSelList"></div></div></div>
   <div id="diaToast"></div>
   <div id="vign"></div><div id="lensV"></div>

diff --git a/sw.js b/sw.js
@@ -1,5 +1,5 @@
 // Network-first service worker: always try fresh files (so updates show), fall back to cache offline.
-const CACHE='headshotz-v37';
+const CACHE='headshotz-v38';
 const ASSETS=['./','index.html','style.css','game.js','maps.js','maps2.js','mapdress.js','wskins.js','gfx.js','weapons.js','chars.js','post.js','assets.js','ice.js','manifest.json','lib/three.module.min.js','lib/peerjs.min.js','lib/localpeer.js','icons/icon-180.png','icons/icon-192.png','icons/icon-512.png'];
 self.addEventListener('install',e=>{self.skipWaiting();e.waitUntil(caches.open(CACHE).then(c=>c.addAll(ASSETS)).catch(()=>{}))});
 self.addEventListener('activate',e=>e.waitUntil(caches.keys().then(k=>Promise.all(k.filter(n=>n!==CACHE).map(n=>caches.delete(n)))).then(()=>self.clients.claim())));

diff --git a/style.css b/style.css
@@ -250,3 +250,6 @@ html,body{height:100%;height:100dvh}
 .clCard img{width:110px;height:150px;object-fit:contain}.clCard small{font-size:11px;opacity:.85;min-height:28px}.clCard.on{border-color:#5dff8a;box-shadow:0 0 0 2px #5dff8a44}
 @media(max-height:450px){.clCard img{width:70px;height:96px}}
 #padInfo.cd{font-size:34px;color:#fff;background:rgba(255,80,40,.75);padding:6px 16px;border-radius:12px}
+
+#hubPob{position:absolute;top:10px;left:50%;transform:translateX(-50%);min-height:52px;padding:8px 18px;font-size:16px;pointer-events:auto;z-index:5}
+#pobModes button{min-height:60px;font-size:16px}
